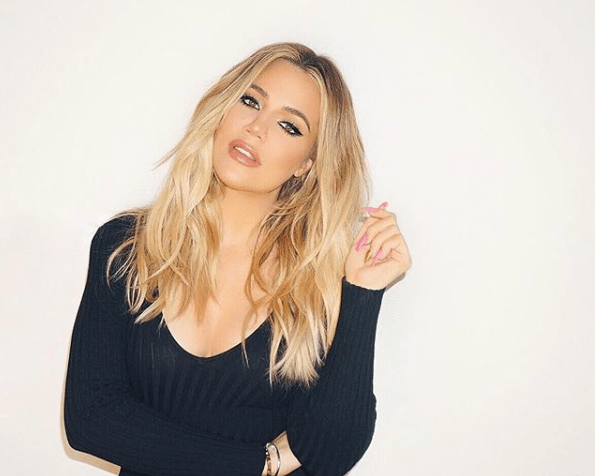
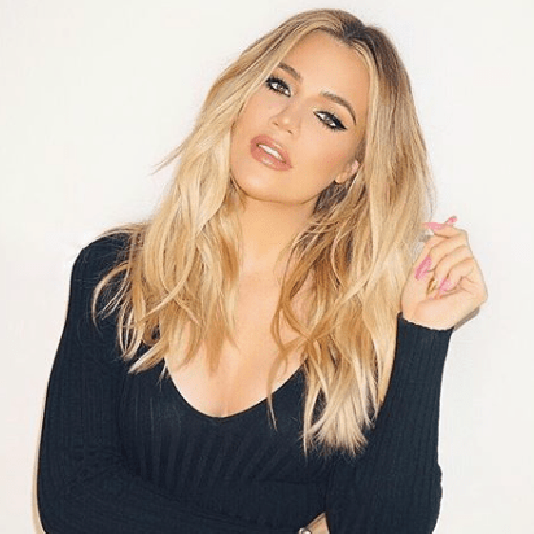
navbar, pictures, counters added

diff --git a/src/components/DashCard/DashCard.css b/src/components/DashCard/DashCard.css
@@ -1,47 +1,20 @@
 .card {
   background: #fff;
   border-radius: 2px;
-  height: 325px;
+  height: 150px;
   margin: 1rem;
   position: relative;
-  width: 325px;
+  width: 150px;
   box-shadow: 0 3px 6px #999, 0 3px 6px #999;
   text-align: left;
 }
 
 .card > .img-container {
-  height: 60%;
+  height: 100%;
   overflow: hidden;
-  text-align: center;
-  background:#6CADDC;
+
 }
 .card > .img-container > img {
-  width: 60%
-}
 
-.card > .content {
-  padding-left: 1rem;
-  padding-right: 1rem;
-  font-size: 15px;
-}
-
-.card > .content > ul {
-  list-style-type: none;
-}
-
-.card > .content > ul > li {
-  margin-top: 18px;
-}
-
-.card > .remove {
-  color: #ff1744;
-  font-size: 48px;
-  position: absolute;
-  top: -20px;
-  right: 5px;
-  cursor: pointer;
-}
-
-.card > .remove:hover {
-  color: #d50000;
+  width: 100%
 }

diff --git a/src/App.js b/src/App.js
@@ -1,7 +1,6 @@
 import React, { Component } from 'react';
 import './App.css';
-import Counter from "./components/Counter";
-import Score from "./components/Score";
+import Navbar from "./components/Navbar"
 import DashCard from "./components/DashCard";
 import Wrapper from "./components/Wrapper";
 import pics from "./pics.json";
@@ -10,8 +9,7 @@ class App extends Component {
 // const App = () => 
 // <wrapper>
 
-//   <Counter /> 
-//   <Score />
+  
 
 // </wrapper>
 
@@ -22,7 +20,10 @@ class App extends Component {
 
   render() {
     return (
+
       <Wrapper>
+        <Navbar /> 
+
         {this.state.pics.map(pics =>(
           <DashCard
             id={pics.id}

diff --git a/src/components/Navbar/Navbar.css b/src/components/Navbar/Navbar.css
@@ -1,0 +1,44 @@
+.navbar {
+	margin:auto;
+	height:100px;
+	width: 100%;
+	background-color: #255DC3;
+}
+
+ul {
+	list-style-type:none;
+	margin: 0;
+	padding: 0;
+}
+
+li {
+	font-size: 20px;
+	color:#FFFFFF;
+	float:left;
+	margin:10px;
+
+}
+
+.brand {
+	width:30%;
+	color:#FFFFFF;
+	font-size: 40px;	
+}
+
+a:link {
+	color:#FFFFFF;
+	text-decoration: none;
+}
+
+a:visited {
+	color:#FFFFFF;
+	text-decoration: none;
+}
+
+.status {
+	width:30%;
+}
+
+.counts {
+	width:30%;
+}

diff --git a/src/components/Navbar/Navbar.js b/src/components/Navbar/Navbar.js
@@ -1,0 +1,23 @@
+import React from "react";
+import "./Navbar.css";
+import Counter from "../Counter";
+import Score from "../Score";
+
+const Navbar = props => (
+	<div className="navbar">
+		<ul>
+			<li className="brand">
+				<a href="/">Kardashian Klick</a>
+			</li>
+			<li className="status"></li>
+			<li className= "counts"> 
+				<Counter /> 
+			</li>
+			<li>
+				<Score />
+			</li>
+		</ul>
+	</div>
+);
+
+export default Navbar;

diff --git a/src/components/Score.js b/src/components/Score.js
@@ -21,12 +21,7 @@ class Score extends React.Component{
 	//The render method	returns the JSX that should be rendered
 	render() {
 		return (
-			// <div className="panel panel-primary">
-			// 	<div className= "panel-heading"></div>
-				<div className= "panel-body text-center">
-					<p>Top Score: {this.state.score}</p>
-				</div>
-			// </div>
+			<p>Top Score: {this.state.score}</p>
 		);
 	}
 };

diff --git a/src/components/Counter.js b/src/components/Counter.js
@@ -23,12 +23,7 @@ class Counter extends React.Component {
 	//The render medthod returns the JSX that should be rendered
 	render() {
 		return (
-			<div className="panel panel-primary">
-				<div className= "panel-heading">Clicky Game</div>
-				<div className= "panel-body text-center">
-					<p>Score: {this.state.count}</p>
-				</div>
-			</div>
+			<p>Score: {this.state.count}</p>
 		);
 	}
 };

diff --git a/src/components/Navbar/index.js b/src/components/Navbar/index.js
@@ -1,0 +1,1 @@
+export { default } from "./Navbar";
